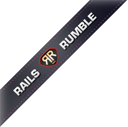
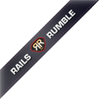
Merging

diff --git a/public/stylesheets/photoquest.css b/public/stylesheets/photoquest.css
@@ -34,12 +34,12 @@ body {
 }
 
 #message.success {
-	background: #fff url("/images/tick.png") no-repeat 14px 6px;
+	background: #fff url("/images/tick.png?12345") no-repeat 14px 6px;
 	color: #1B676B;
 }
 
 #message.fail {
-	background: #fff url("/images/error.png") no-repeat 14px 6px;
+	background: #fff url("/images/error.png?12345") no-repeat 14px 6px;
 	color: #E08E79;
 }
 
@@ -52,10 +52,10 @@ body {
 
 #railsrumble a {
 	display: block;
-	width: 128px;
-	height: 127px;
+	width: 100px;
+	height: 99px;
 	border: none;
-	background: transparent url("/images/railsrumble.png") no-repeat 0 0;
+	background: transparent url("/images/railsrumble.png?12345") no-repeat 0 0;
 	text-indent: -9999px;
 }
 
@@ -149,6 +149,7 @@ Header
 #header #logo a {
 	display: block;
 	height: 86px;
+	margin: 0;
 	padding: 0 0 0 330px;
 	line-height: 3.4em;
 	background: transparent url("/images/photoquest-logo.png?1") no-repeat 0 0;
@@ -313,6 +314,7 @@ ul#possible_answers li {
 	margin: 0 auto;
 	padding: 0;
 	text-align: left;
+	position: relative;
 }
 
 .simple_form .hint {
@@ -323,6 +325,20 @@ ul#possible_answers li {
 	font-size: .9em;
 	color: #696969;
 	margin: 2px 36px 8px 0;
+}
+
+.simple_form .error {
+	position: absolute;
+	width: 140px;
+	font-size: .8em;
+	background-color: #E08E79;
+	margin: -70px 0 0 500px;
+	padding: 4px 8px;
+	-webkit-border-radius: .4em; 
+	-moz-border-radius: .4em;
+	border-radius: .4em;
+	color: #fff;
+	text-transform: uppercase;
 }
 
 .simple_form div {
@@ -418,9 +434,17 @@ ul#possible_answers li {
 	filter:  progid:DXImageTransform.Microsoft.gradient(startColorstr='#ededed', endColorstr='#ffffff');	
 }
 
-.simple_form input[type="submit"] {
-	float: right;
+.simple_form #action {
 	margin: 10px 30px 0 0;
+	text-align: right;
+}
+
+.simple_form #action a {
+	font-size: 1.2em;
+}
+
+.simple_form input[type="submit"] {
+	vertical-align: middle;
 }
 
 /*

diff --git a/app/models/quest.rb b/app/models/quest.rb
@@ -1,7 +1,7 @@
 class Quest < CouchRest::Model::Base 
-  
-  attr_accessor :incorrect_answer1, :incorrect_answer2, :incorrect_answer3, :incorrect_answer4
 
+  attr_accessor :incorrect_answer1, :incorrect_answer2, :incorrect_answer3, :incorrect_answer4
+  
   property :image_url, String
   property :page_where_image_is, String
   property :twitter_screen_name, String
@@ -13,9 +13,13 @@ class Quest < CouchRest::Model::Base
   property :abuses_reported, Integer, :default => 0 
   
   view_by :short_id
-  validates_presence_of :image_url, :page_where_image_is, :correct_answer, :incorrect_answer1, :incorrect_answer2, :incorrect_answer3, :incorrect_answer4
-  
+  validates_format_of :image_url, :page_where_image_is, :with => /^(http|https):\/\/[a-z0-9]+([\-\.]{1}[a-z0-9]+)*\.[a-z]{2,5}(:[0-9]{1,5})?(\/.*)?$/ix
+  validates_format_of :twitter_screen_name, :with => /^[@a-zA-Z0-9_-]{0,40}$/ix
+  validates_presence_of :correct_answer, :incorrect_answer1, :incorrect_answer2, :incorrect_answer3, :incorrect_answer4
+
   before_create :adapt_incorrect_answers
+  before_create :strip_quest
+  before_create :remove_arroba
   after_create :create_short_id
 
   def mark_as_abuse!(player)
@@ -78,11 +82,20 @@ class Quest < CouchRest::Model::Base
   
   def adapt_incorrect_answers
     if self.incorrect_answers.blank?
-      self.incorrect_answers = [ incorrect_answer1, 
-                                 incorrect_answer2, 
-                                 incorrect_answer3, 
-                                 incorrect_answer4 ]
+      self.incorrect_answers = [ incorrect_answer1.strip, 
+                                 incorrect_answer2.strip, 
+                                 incorrect_answer3.strip, 
+                                 incorrect_answer4.strip ]
     end
   end
   
+  def strip_quest
+    write_attribute(:page_where_image_is, self.page_where_image_is.strip) unless self.page_where_image_is.blank?
+    write_attribute(:twitter_screen_name, self.twitter_screen_name.strip) unless self.twitter_screen_name.blank?
+    write_attribute(:correct_answer, self.correct_answer.strip) unless self.correct_answer.blank?
+  end
+  
+  def remove_arroba
+    write_attribute(:twitter_screen_name, self.twitter_screen_name.sub!(/@/, "")) unless self.twitter_screen_name.blank?
+  end
 end

diff --git a/app/controllers/challenges_controller.rb b/app/controllers/challenges_controller.rb
@@ -8,14 +8,14 @@ class ChallengesController < ApplicationController
   end
 
   def create
-    @quest = @player.create_quest(params[:quest]) 
-    if @quest.valid?
-      
+    @new_quest = Quest.create params[:quest]
+    if @new_quest.valid?
+      @player.create_sharing_move
       @score = Score.new(@player).calculate
     else
       flash[:error] = "Ops, there was no possible to record your quest."
-
-      redirect_to challenges_path
+      fetch_quest
+      render :action => :index
     end
   end
   

diff --git a/config/routes.rb b/config/routes.rb
@@ -15,7 +15,7 @@ Rr10Team114::Application.routes.draw do
 
   # Sample of regular route:
   #   match 'products/:id' => 'catalog#view'
-  match 'c/:id' => 'challenges#show'
+  #   match 'c/:id' => 'challenges#show'
   # Keep in mind you can assign values other than :controller and :action
 
   # Sample of named route:

diff --git a/config/initializers/simple_form.rb b/config/initializers/simple_form.rb
@@ -9,7 +9,7 @@ SimpleForm.setup do |config|
   config.hint_tag = :div
 
   # Default tag used on errors.
-  # config.error_tag = :span
+  config.error_tag = :div
 
   # Method used to tidy up errors.
   # config.error_method = :first
